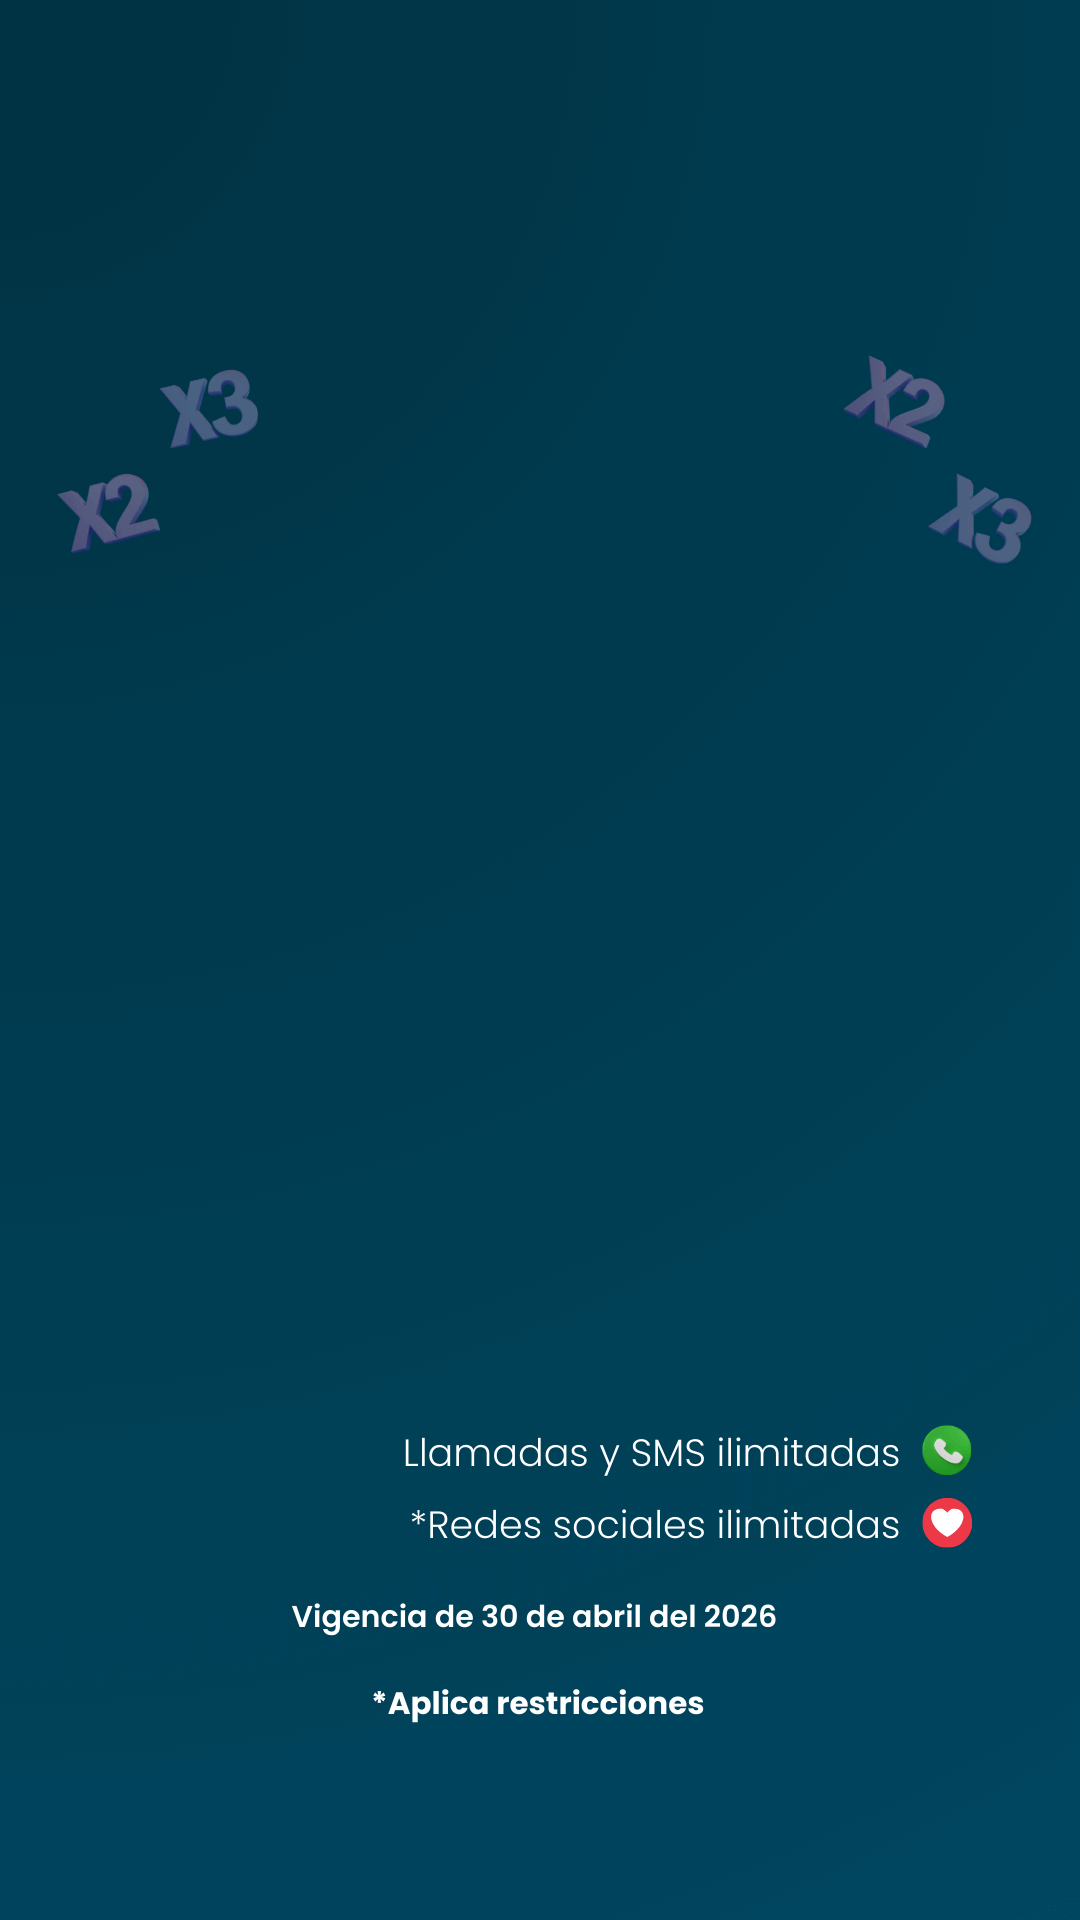
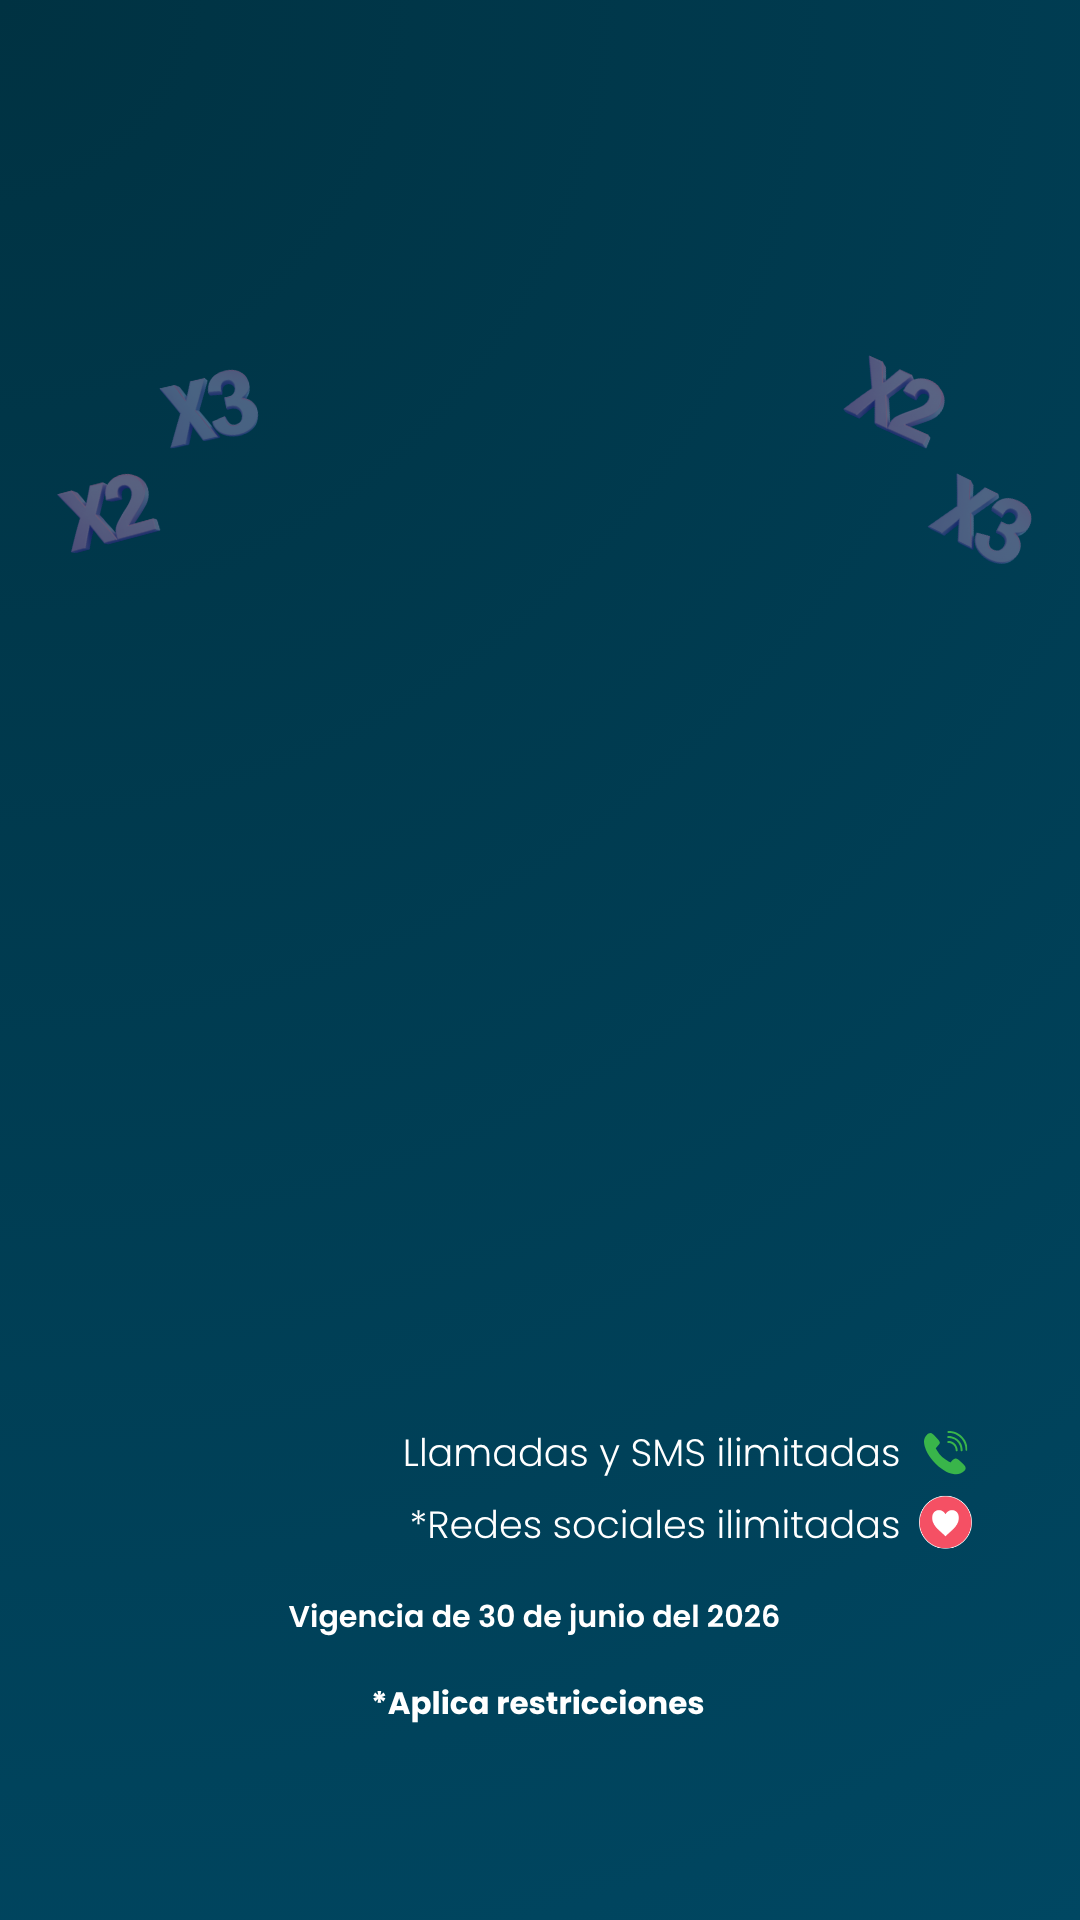
tu mensaje

Changed region(s): [[0.3667, 0.8125, 0.7028, 0.8438], [0.8556, 0.7188, 0.9167, 0.8125], [0.275, 0.8125, 0.3361, 0.875]]

diff --git a/promociones/index.html b/promociones/index.html
@@ -618,7 +618,7 @@
                     <div class="mt-10 text-center">
                         <p class="text-xl md:text-2xl text-white font-medium mb-4 drop-shadow-md">Redes Sociales <span class="font-black tracking-wide">ILIMITADAS</span>, Llamadas y SMS <span class="font-black tracking-wide">ilimitadas</span>, <span class="font-black tracking-wide uppercase">Comparte Datos</span> y Acumulación <span class="font-black tracking-wide uppercase">GB</span></p>
                         <div class="inline-block bg-[#003242]/80 backdrop-blur-md px-6 py-2 rounded-full border border-[#57C5B6]/30 mb-6">
-                            <span class="text-sm md:text-base font-bold text-[#BCEAD5]">Vig del 1 Mayo al 31 Junio del 2026</span>
+                            <span class="text-sm md:text-base font-bold text-[#BCEAD5]">Vig del 1 Mayo al 30 de Junio del 2026</span>
                         </div>
                         <p class="text-[10px] md:text-xs text-[#CBE4DE]/80 leading-relaxed max-w-4xl mx-auto">
                             Promoción válida exclusivamente para portabilidad desde líneas Telcel, Movistar y AT&T. Promoción válida generando la portabilidad dentro de los primeros 5 días. Tarifa registrada en Ift: Cool Teen max: 2512654, Cool Xoxo: 2512651, Cool Kids: 2512653, Cool Flexible: 2512656, Cool Total: 2512658, Cool Power: 2512659
